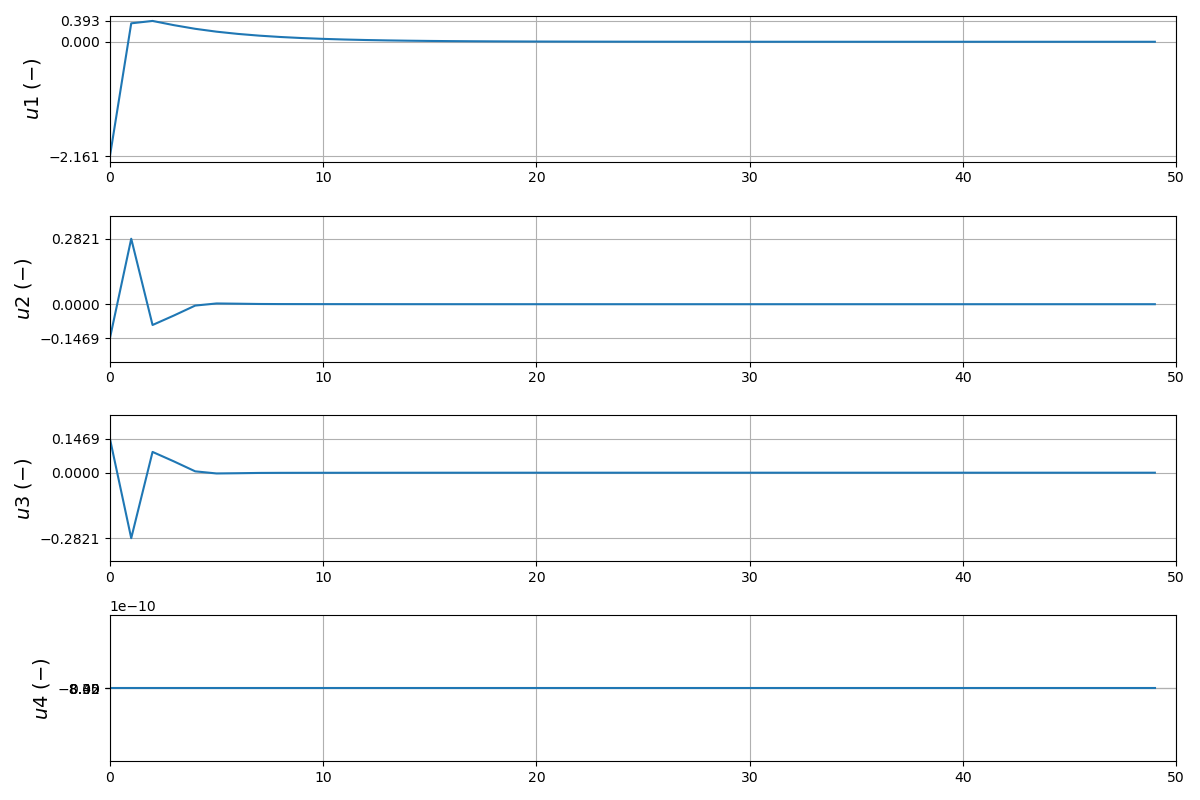
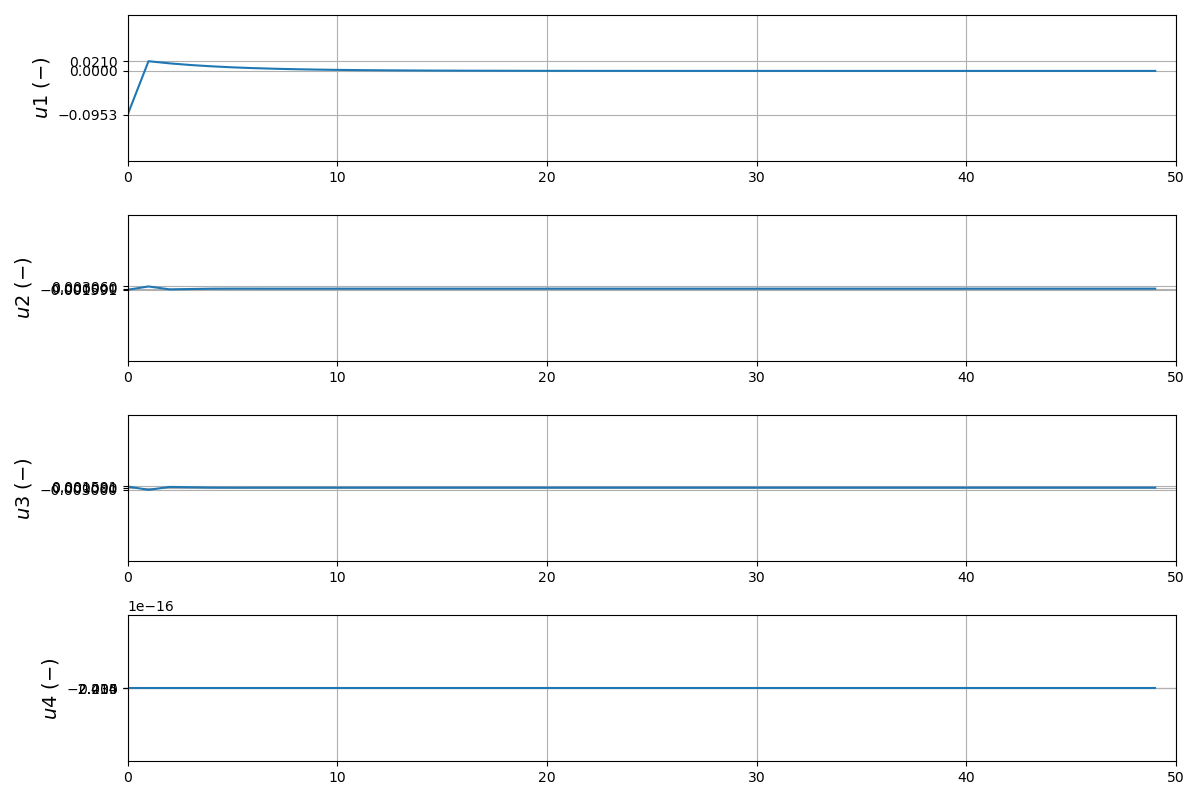
organised different drone params

diff --git a/mpc.py b/mpc.py
@@ -2,6 +2,7 @@ import math
 import cvxpy as cp
 import numpy as np
 from math import sin, cos, tan
+from drone import drone_cf2x, drone_m_islam
 
 
 class MPCControl:
@@ -27,40 +28,25 @@ class MPCControl:
         self._buildMPCProblem()
 
     def _buildModelMatrices(self):
-        I_x = 7.5e-3  # self._getURDFParameter("ixx")
-        I_y = 7.5e-3  # self._getURDFParameter("iyy")
-        I_z = 1.3e-2  # self._getURDFParameter("izz")
-        l = 0.23  # self._getURDFParameter("arm")
-        I_r = 6e-05
-        k_f = 3.13e-5  # self._getURDFParameter("kf")
-        k_m = 7.5e-7  # self._getURDFParameter("km")
-        m = 0.65  # self._getURDFParameter("m")
-        g = 9.80665
-        k_tx = 0
-        k_ty = 0
-        k_tz = 0
-        k_rx = 0
-        k_ry = 0
-        k_rz = 0
-        w_r = 0
+        drone = drone_m_islam # drone_cf2x
 
-        # ### Drone cf2x
-        # I_x = 1.4e-5  # self._getURDFParameter("ixx")
-        # I_y = 1.4e-5  # self._getURDFParameter("iyy")
-        # I_z = 2.17e-5  # self._getURDFParameter("izz")
-        # l = 0.0397  # self._getURDFParameter("arm")
-        # I_r = 6e-05
-        # k_f = 3.16e-10  # self._getURDFParameter("kf")
-        # k_m = 7.94e-12  # self._getURDFParameter("km")
-        # m = 0.027  # self._getURDFParameter("m")
-        # g = 9.80665
-        # k_tx = 0
-        # k_ty = 0
-        # k_tz = 0
-        # k_rx = 0
-        # k_ry = 0
-        # k_rz = 0
-        # w_r = 0
+        I_x = drone.I_x
+        I_y = drone.I_y
+        I_z = drone.I_z
+        l = drone.l 
+        I_r = drone.I_r
+        k_f = drone.k_f  
+        k_m = drone.k_m 
+        m = drone.m  
+        g =drone.g
+        k_tx = drone.k_tx
+        k_ty = drone.k_ty
+        k_tz = drone.k_tz
+        k_rx = drone.k_rx
+        k_ry = drone.k_rx
+        k_rz = drone.k_rx
+        w_r = drone.w_r
+
 
         # matrix to convert inputs (=forces) to rpm^2
         # rpm^2 = K * u

diff --git a/drone.py b/drone.py
@@ -1,0 +1,61 @@
+from dataclasses import dataclass
+
+
+@dataclass
+class Drone:
+    I_x: float
+    I_y: float
+    I_z: float
+    l: float
+    I_r: float
+    k_f: float
+    k_m: float
+    m: float
+    g: float
+    k_tx: float
+    k_ty: float
+    k_tz: float
+    k_rx: float
+    k_ry: float
+    k_rz: float
+    w_r: float
+
+# Drone from pybullet gym assets
+drone_cf2x = Drone(
+    I_x=1.4e-5,
+    I_y=1.4e-5,
+    I_z=2.17e-5,
+    l=0.0397,
+    I_r=6e-05,
+    k_f=3.16e-10,
+    k_m=7.94e-12,
+    m=0.027,
+    g=9.80665,
+    k_tx=0,
+    k_ty=0,
+    k_tz=0,
+    k_rx=0,
+    k_ry=0,
+    k_rz=0,
+    w_r=0,
+)
+
+### Drone from  M Islam et al 2017 IOP Conf. Ser.: Mater. Sci. Eng. 270 012007
+drone_m_islam = Drone(
+    I_x=7.5e-3,
+    I_y=7.5e-3,
+    I_z=1.3e-2,
+    l=0.23,
+    I_r=6e-05,
+    k_f=3.13e-5,
+    k_m=7.5e-7,
+    m=0.65,
+    g=9.80665,
+    k_tx=0,
+    k_ty=0,
+    k_tz=0,
+    k_rx=0,
+    k_ry=0,
+    k_rz=0,
+    w_r=0,
+)
